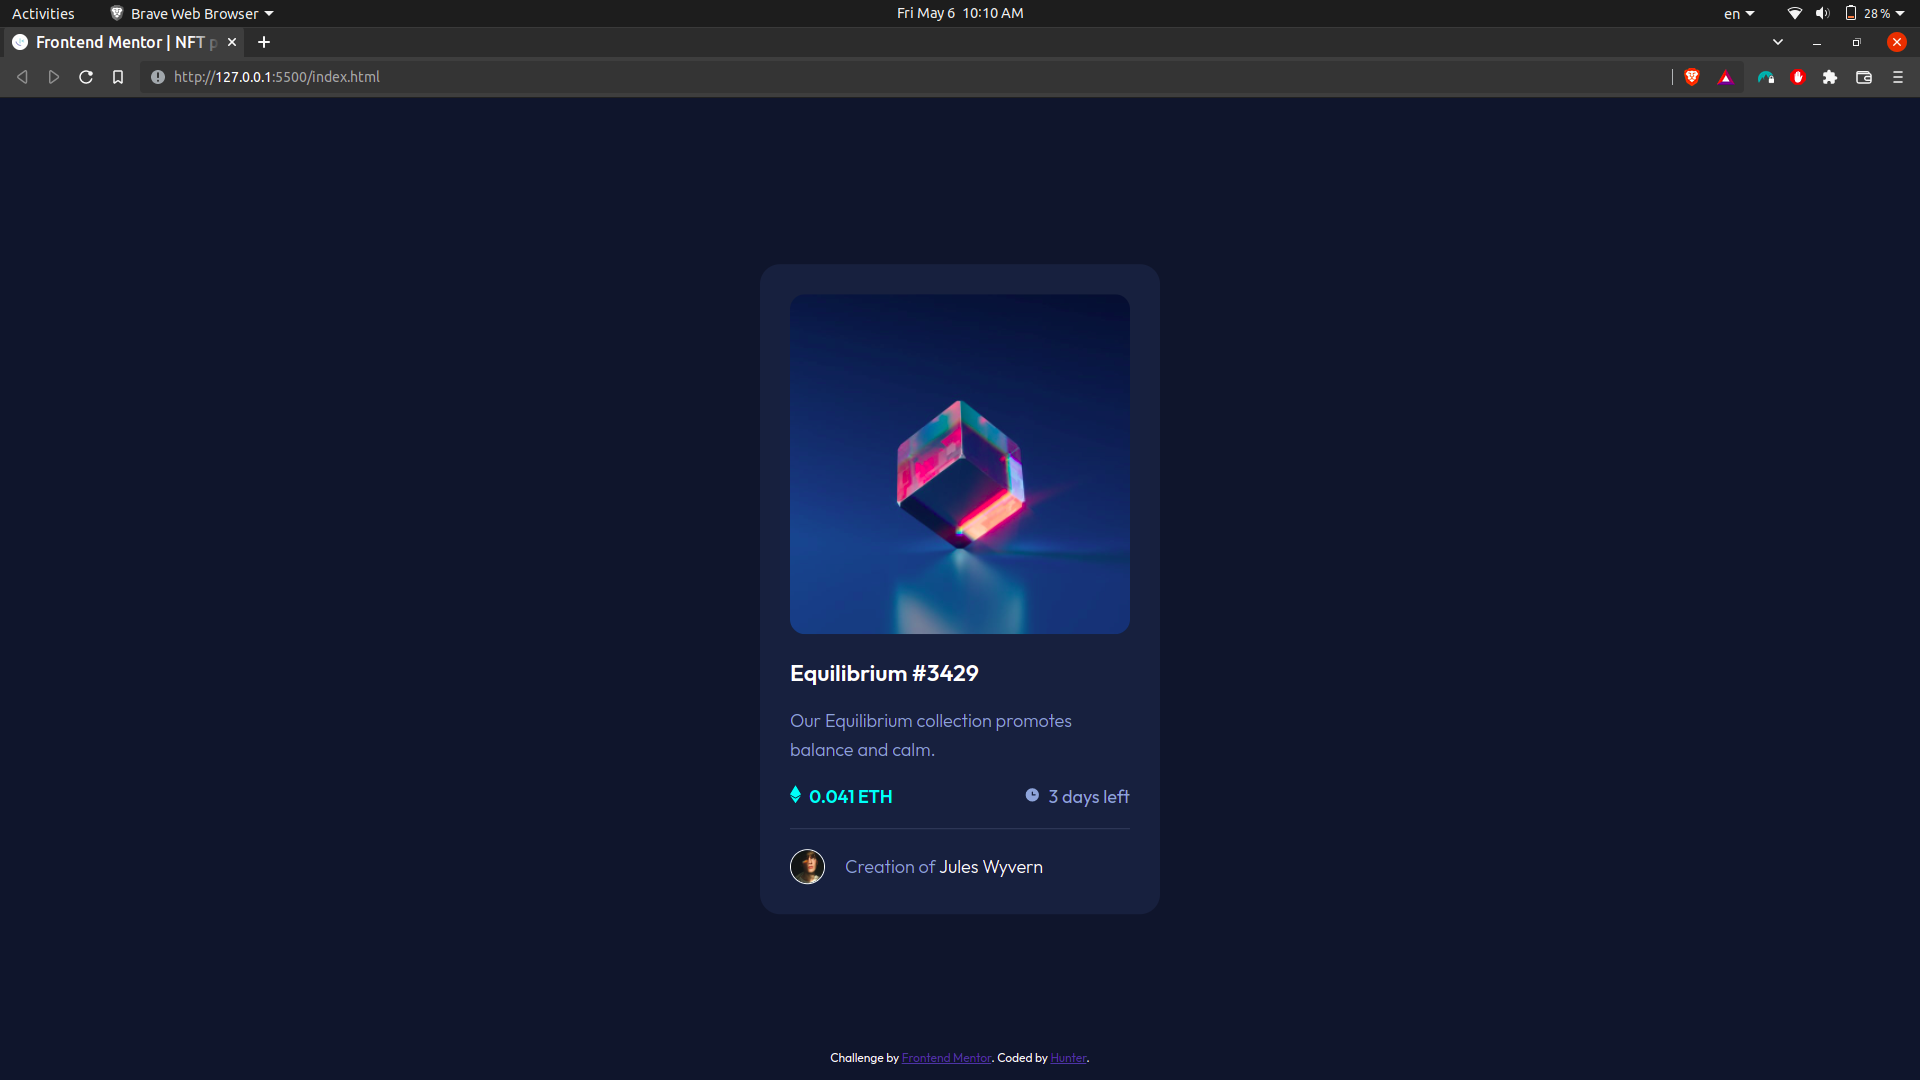
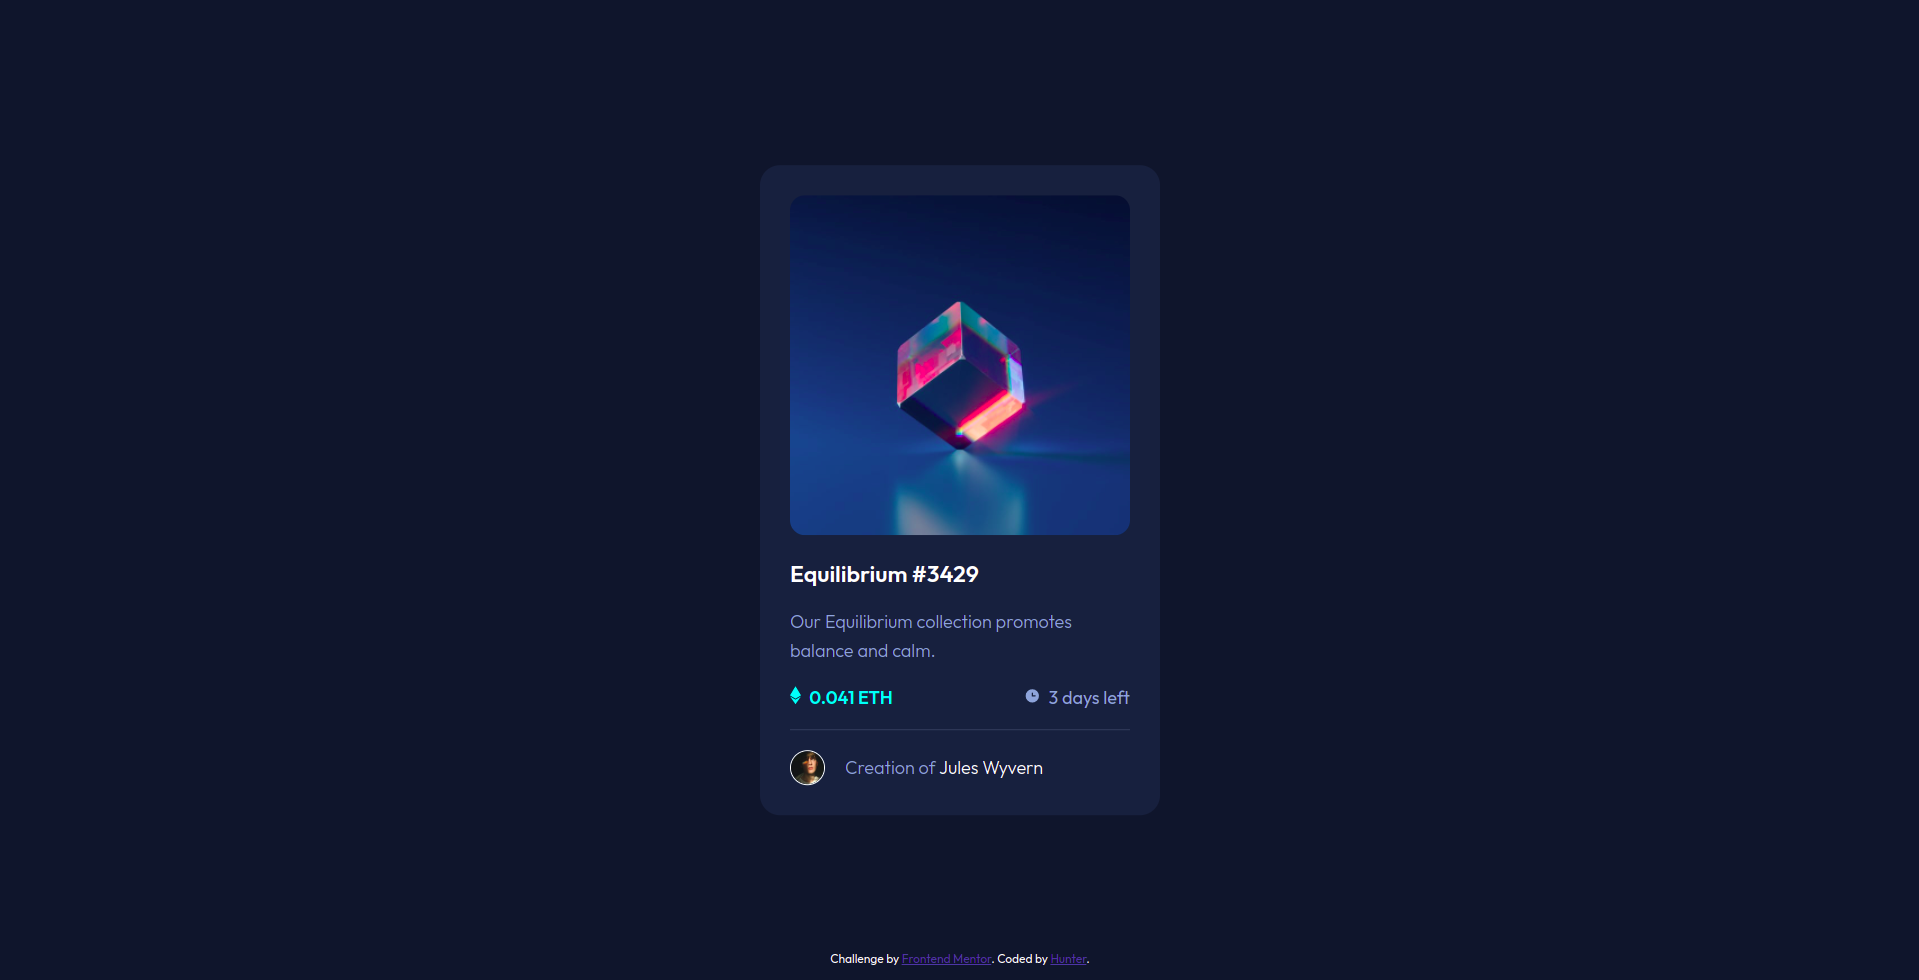
Fixing responsive issues

diff --git a/css/style.css b/css/style.css
@@ -19,8 +19,15 @@ body {
   position: relative;
 }
 
-body p {
+body p, 
+body span {
   font-size: 18px;
+}
+@media (max-width: 400px) {
+  body p,
+  body span {
+    font-size: 14px !important;
+  }
 }
 
 .attribution {
@@ -42,12 +49,18 @@ body p {
   top: 50%;
   left: 50%;
   transform: translate(-50%, -50%);
+  width: 400px;
 }
+@media (max-width: 400px) {
+  .container {
+    width: 300px;
+  }
+}
+
 
 .card {
   padding: 30px;
   background-color: var(--card-BG);
-  width: 400px;
   border-radius: 20px;
   color: white;
 }
@@ -65,9 +78,9 @@ body p {
   height: 100%;
   background-color: var(--cyan);
   border-radius: 15px;
-  opacity: 0.5;
+  opacity: 0;
+  transition: 0.3s;
   z-index: 1;
-  display: none;
 }
 .card .img::after {
   content: url(../images/icon-view.svg);
@@ -76,12 +89,15 @@ body p {
   top: 50%;
   transform: translate(-50%, -50%);
   z-index: 2;
-  display: none;
+  opacity: 0;
+  transition: 0.4s;
 }
 
-.card .img:hover::after,
 .card .img:hover::before {
-  display: block;
+  opacity: 0.5;
+}
+.card .img:hover::after {
+  opacity: 1;
 }
 
 
@@ -119,13 +135,11 @@ body p {
 .card .details .price span {
   color: var(--cyan);
   font-weight: bold;
-  font-size: 18px;
   margin-left: 5px;
 }
 
 .card .details .timer span {
   color: var(--soft-blue);
-  font-size: 18px;
   position: relative;
 }
 

diff --git a/README-template.md b/README-template.md
@@ -34,7 +34,7 @@ Users should be able to:
 ### Links
 
 - Solution URL: [My solution](https://github.com/huntoor/NFT-preview-card-component)
-- Live Site URL: [](https://your-live-site-url.com)
+- Live Site URL: [Github Page](https://huntoor.github.io/NFT-preview-card-component/)
 
 ## My process
 
